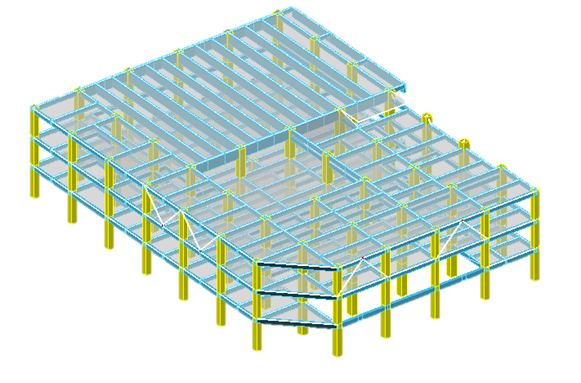
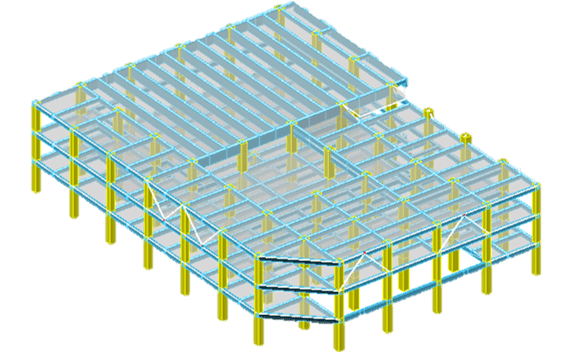
Site updated: 2022-07-05 13:00:08

diff --git a/wiki/pkpm0101/index.html b/wiki/pkpm0101/index.html
@@ -132,7 +132,7 @@
 
   
   
-<div class="bread-nav fs12"><div id="breadcrumb"><a class="cap breadcrumb" id="home" href="/">主页</a><span class="sep"></span><a class="cap breadcrumb" id="menu" href="/wiki/">项目</a><span class="sep"></span><a class="cap breadcrumb" id="proj" href="/wiki/pkpm0101/index.html">毕业设计</a></div><div id="post-meta">更新于&nbsp;<time datetime="2022-07-05T02:46:23.451Z">2022-07-05</time></div></div>
+<div class="bread-nav fs12"><div id="breadcrumb"><a class="cap breadcrumb" id="home" href="/">主页</a><span class="sep"></span><a class="cap breadcrumb" id="menu" href="/wiki/">项目</a><span class="sep"></span><a class="cap breadcrumb" id="proj" href="/wiki/pkpm0101/index.html">毕业设计</a></div><div id="post-meta">更新于&nbsp;<time datetime="2022-07-05T04:59:30.196Z">2022-07-05</time></div></div>
 
   <article class='content md wiki'>
   <h1 class="article-title"><span>毕业设计</span></h1>
@@ -144,39 +144,33 @@
 <tr>
 <th align="center">设计使用年限</th>
 <th align="center">50年</th>
+<th>一般房间环境类别</th>
+<th>一</th>
 </tr>
 </thead>
 <tbody><tr>
 <td align="center">抗震设防类别</td>
 <td align="center">丙类</td>
+<td>卫生间环境类别</td>
+<td>二a</td>
 </tr>
 <tr>
 <td align="center">结构安全等级</td>
 <td align="center">二级</td>
+<td>地下室环境类别</td>
+<td>二b</td>
 </tr>
 <tr>
 <td align="center">基础设计等级</td>
 <td align="center">甲级</td>
+<td>地下室防水等级</td>
+<td>一级</td>
 </tr>
 <tr>
 <td align="center">耐火等级</td>
 <td align="center">一级</td>
-</tr>
-<tr>
-<td align="center">一般房间环境类别</td>
-<td align="center">一</td>
-</tr>
-<tr>
-<td align="center">卫生间环境类别</td>
-<td align="center">二a</td>
-</tr>
-<tr>
-<td align="center">地下室环境类别</td>
-<td align="center">二b</td>
-</tr>
-<tr>
-<td align="center">地下室防水等级</td>
-<td align="center">一级</td>
+<td></td>
+<td></td>
 </tr>
 </tbody></table></div><div class="tab-pane active" id="tab_1-2"><table>
 <thead>
@@ -224,22 +218,22 @@
 <p>裙房屋面高度14.100m，框架结构；</p>
 <p>符合A级高度钢筋混凝土高层建筑最大适用高度。</p>
[3 lines of base64/hex data omitted]
 
[1 lines of base64/hex data omitted]
 <h3 id="3-3剪力墙布置"><a href="#3-3剪力墙布置" class="headerlink" title="3.3剪力墙布置"></a>3.3剪力墙布置</h3><p>为解决抗扭刚度不足造成扭转周期过长，周期比过大的问题，应分别在L形平面的长肢和短肢的端部交通核处布置核心筒。</p>
 <p>结构转角处抗侧刚度不足，双向层间位移角均较大，应在转角处外侧（邻街侧）布置剪力墙，但受限于地下室行车道与建筑立面形象的要求，仅在一处转角外侧布置剪力墙仍有不足，因此通过增加短肢Y向抗侧刚度、补加剪力墙，改善结构总指标。</p>
[1 lines of base64/hex data omitted]
-<h3 id="3-4屈曲约束支撑的设计与布置"><a href="#3-4屈曲约束支撑的设计与布置" class="headerlink" title="3.4屈曲约束支撑的设计与布置"></a>3.4屈曲约束支撑的设计与布置</h3><p>主楼——承载型屈曲约束支撑</p>
-<p>裙房——屈曲约束支撑型阻尼器</p>
+<h3 id="3-4屈曲约束支撑的设计与布置"><a href="#3-4屈曲约束支撑的设计与布置" class="headerlink" title="3.4屈曲约束支撑的设计与布置"></a>3.4屈曲约束支撑的设计与布置</h3><p>![](<a href="https://samanorth.github.io/image/wiki/pkpm0101/12.png">https://samanorth.github.io/image/wiki/pkpm0101/12.png</a> width:400px)</p>
 <div class="tag-plugin checkbox" ><input type="radio"/><span>需要注意的是，承载型屈曲约束支撑本质上是不会发生屈曲的支撑，在结构设计过程中并不考虑它的阻尼作用，而屈曲约束支撑型阻尼器本质上基于位移型的通过拉压屈服完成耗能功效，且控制在多遇地震下屈服的阻尼器，是作为减震措施的一种</span></div>
 
 <p>在设计过程中，我们需要注意屈曲约束支撑类型的选用：</p>
 <p>针对框架剪力墙主楼而言，剪力墙充当了地震作用下的第一道防线，其自身刚度很大（k↑），对结构的自振周期起控制作用(T↓)<br>$$<br>T = 2\pi\sqrt{\frac{m}{k}}<br>$$</p>
[1 lines of base64/hex data omitted]
-
-<p>$$<br>F = \alpha G<br>$$<br>因此，对于框剪主楼而言，在建筑设计（如空间和立面）对阻尼器的布置十分严格的情况下，阻尼调整系数对地震影响系数的优化是有限的，ru’biao</p>
-
[1 lines of base64/hex data omitted]
+<p>$$<br>F = \alpha G<br>$$<br>结合地震影响系数曲线可见，对于框剪主楼而言，理想的阻尼器布置方法是：①将部分刚度极大的剪力墙换为粘滞阻尼墙②在层间位移大的楼层较多得布置阻尼器，从而尽可能靠向曲线平滑段。但是在建筑设计（如空间和立面）对严格限制阻尼器的布置的情况下，这样的想法通常很难实现，阻尼器的阻尼比和能够提供的阻尼影响系数对地震影响系数的优化是十分有限的，通常会出现布置了阻尼器后结构层间位移角变大超限的情况。所以，对于地震作用较大的框剪结构而言，我们应该追求的是在减少楼层荷载（G↓）的同时，适当增设支撑”硬抗“地震作用。</p>
+<p>如此一来，在框剪主楼增设承载型屈曲约束支撑是十分合适的，这种支撑通过引入屈曲约束机制来提高支撑构件的设计承载力，保证支撑在屈服前不会发生失稳破坏，从而充分发挥钢材强度。</p>
+<p>PKPM中我们可以采用等效截面积法来定义承载型屈曲约束支撑，如根据内力简图计算得出所需支撑截面积为358cm²，则定义200mm×200mm（400cm²）的截面即可，但直接采用矩形截面往往会导致PKPM计算结果出错，可变通得定义为留有2mm×2mm小孔的箱型截面。通常结果会因稳定性问题飘红，但由于其不存在稳定性问题，所以我们只需要核对其轴力小于其承载力，忽略飘红即可。</p>
[1 lines of base64/hex data omitted]
   
 
 
